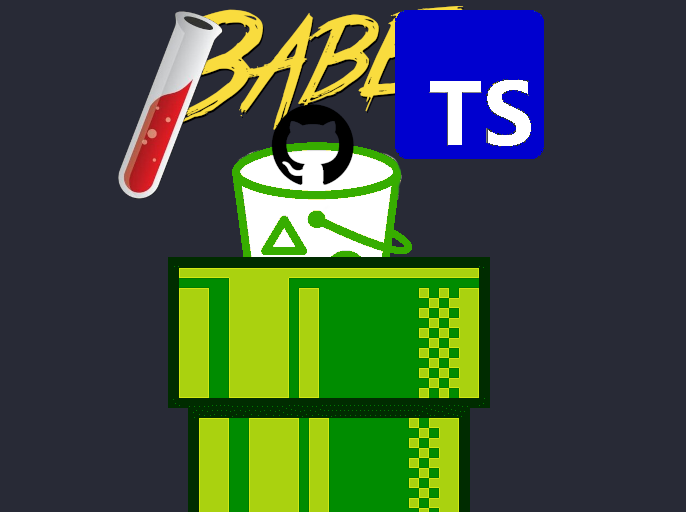
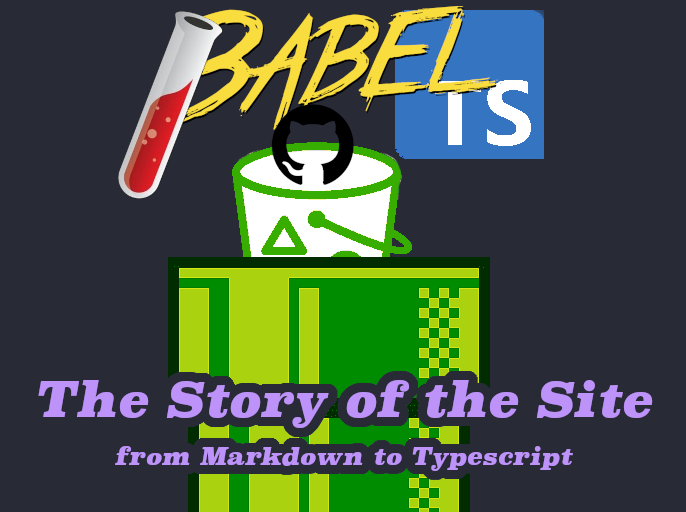
Add story of the site post

Changed region(s): [[0.1531, 0.7188, 0.949, 0.9375], [0.551, 0.0, 0.7959, 0.3125], [0.0306, 0.7188, 0.2143, 0.8125]]

diff --git a/_layouts/writing.html b/_layouts/writing.html
@@ -1,0 +1,66 @@
+<!DOCTYPE html>
+<html lang="en-US"><head>
+    <meta charset="UTF-8">
+    <meta http-equiv="X-UA-Compatible" content="IE=edge">
+    <meta name="viewport" content="width=device-width, initial-scale=1">
+
+<!-- Begin Jekyll SEO tag v2.7.1 -->
+<title>mmcbrien</title>
+<meta name="generator" content="Jekyll v3.9.0">
+<meta property="og:title" content="mmcbrien">
+<meta property="og:locale" content="en_US">
+<meta property="og:site_name" content="mmcbrien">
+<meta name="twitter:card" content="summary">
+<meta property="twitter:title" content="mmcbrien">
+<script src="https://ajax.googleapis.com/ajax/libs/jquery/2.1.3/jquery.min.js"></script>
+<script type="application/ld+json">
+{"headline":"mmcbrien","publisher":{"@type":"Organization","logo":{"@type":"ImageObject","url":"/assets/splash.png"}},"url":"/","name":"mmcbrien","@type":"WebSite","@context":"https://schema.org"}</script>
+<!-- End Jekyll SEO tag -->
+
+    <link rel="stylesheet" href="/assets/css/style.css?v=">
+    <!--[if lt IE 9]>
+    <script src="//cdnjs.cloudflare.com/ajax/libs/html5shiv/3.7.3/html5shiv.min.js"></script>
+    <![endif]-->
+  </head>
+  <body>
+    <div class="wrapper">
+      <header>
+        <div id="header">
+        <h1><a href="/">mmcbrien</a></h1>
+            <div class="fadeLogos fadeLogosParent">
+              <img id="logoA" src="/assets/splashSoftwareEngineer.png" alt="Logo">
+            </div>
+            <div class="fadeLogos fadeLogosParent">
+                <img id="logoB" src="/assets/splashYellowJacket.png" alt="Logo">
+            </div> 
+            <div class="fadeLogos fadeLogosParent">
+                <img id="logoC" src="/assets/splashProgrammer.png" alt="Logo">
+            </div> 
+            <div class="fadeLogos fadeLogosChild">
+                <img id="logoD" src="/assets/splashWriter.png" alt="Logo">
+            </div>
+        
+        <p></p>
+        <div style="position:relative">
+          <h3><a href="https://github.com/mmcbrien3/mmcbrien.com">GitHub Commits</a></h3>
+          <table id="gitCommitsTable">
+            <tr>
+              <th><b><i>Title</i></b></th>
+              <th><b><i>SHA</i></b></th>
+            </tr>
+            <tr class="commitTableEntry"></b>
+          </table>
+        </div>
+        </div>
+      </header>
+      <section id="contentWrapper">
+    <h2><a href="../writings.html"> Back to Writings </a></h2>
+{{ content }}
+      </section>
+      <footer>
+        <small>Hosted on S3 — <a href="https://github.com/orderedlist">Theme</a></small>
+      </footer>
+    </div>
+</body>
+<script src="/js/main.js"></script>
+</html>

diff --git a/writing_dir/story_of_the_site_2023.md b/writing_dir/story_of_the_site_2023.md
@@ -1,0 +1,93 @@
+---
+layout: writing 
+---
+
+![](.././assets/howItsMade.png)
+
+#### April 24th, 2023
+
+### Overview
+This post is a brief history of how the website took shape and reached
+it's current form. It doesn't go into deep technical details and isn't a
+tutorial on how to set everything up. Maybe I'll write that tutorial one
+day.
+
+### Origins 
+
+When I created this website, I had three goals for it:
+1. Create a showcase for some of my work
+2. Have an easy place to write and publish blogs
+3. Learn about web development
+
+Goals (1) and (2) are quite easy to achieve with any website
+building platform like squarespace. However, using a common
+platform like this would mean that I wouldn't achieve goal (3).
+
+To that end, I started learning about easy ways to set up
+static websites with easy hosting. This is when I learned about
+[GitHub pages](https://docs.github.com/en/pages), which is a service
+provided by GitHub that allows you to easily publish websites
+from your repositories. GitHub recommends using [Jekyll](https://jekyllrb.com),
+which is a ruby-based static-site builder. This all fit the bill!
+
+With this discovery and a bit of effort, the first version of the
+website was born: `mmcbrien3.github.io`.
+
+### Improving on the Original
+
+The first version of the site was great. One of the main benefits of using
+jekyll is that you can write pages very quickly in markdown, and jekyll
+will convert this to HTML for you. Adding paragraph breaks, **bolds**, and
+images is very straightforward (at least for me since I had experience with
+markdown). Writing and publishing to the web was very straightforward.
+
+An early issue I had with my site was that I didn't like the color scheme. To
+fix this, I investigated how the Jekyll theme I was using set up everything. This
+is when I first started tinkering with CSS for the first time and I was able
+to update the site to use the [dracula theme](https://draculatheme.com).
+
+### The Release Process
+
+The GitHub pages site was great, but I wanted to take more control on the release process,
+and I wanted to start using a custom domain [mmcbrien.com](mmcbrien.com). To this end,
+I migrated the site to use S3 as the static site host. A code pipeline on AWS pulls
+the latest commit from GitHub automatically, runs a simple build command, and publishes
+the artifacts to S3. With this pipeline, I was able to create custom build and release commands for my site. 
+These custom commands meant that I could now build any static site I wanted with any dependency
+and was no longer constricted by the GitHub pages dependencies and workflow.
+
+At the same time, I was able to migrate to a new custom domain using 
+[Route 53 and CloudFront](https://docs.aws.amazon.com/AmazonS3/latest/userguide/website-hosting-custom-domain-walkthrough.html).
+
+For the first time, I was completely in control of how my website was written, built,
+released, and published!
+
+In the future, I could extend the release process to include testing to validate the build
+and CloudFront actions to expedite the release.
+
+## NPM
+
+The next improvement came when I realized how poor my dependency management was. I usually make changes on
+my laptop, but I tried making a change on my desktop. I realized that getting all the dependencies installed
+correctly to perform the build was more challenging than it should be. I had been using Ruby and
+*global* node packages to get everything to work.
+
+I undertook the work to define what dependencies one would need before starting (currently Ruby and Node), and
+then writing a one-liner using npm that could do the rest. I added a few more nice to haves, including npm
+clean, build, and serve commands. These commands are by the code pipeline in the release process.
+Finally, the site was in a state where building and releasing was sensible and tight.
+
+### Typescript
+
+At this point, the site was in quite a good state. However, with some of my blogs, I was interested
+in adding some relatively beefy javascript to support the text. This was achievable with the setup,
+but writing the javascript was quite painful for me since I am more of a strongly-typed kind of engineer.
+
+To support this, I migrated to using [typescript](https://www.typescriptlang.org/) with [babel](https://babeljs.io/) 
+as the transpiler. Typescript allows me to write much more readable code and babel will convert that into
+browser-compatible javascript.
+
+It is quite remarkable to me that I can write code in typescript and edit text in markdown and all of this
+can be automatically converted into a website automatically. This is the type of abstraction that makes
+software engineering so thrilling. At this point, I barely have to think about the vast array of underlying
+technologies to publish my website.

diff --git a/writings.md b/writings.md
@@ -2,6 +2,7 @@
 layout: default
 ---
 # Writings
+- [The Story of the Site](./writing_dir/story_of_the_site_2023.html)
 - [A Brief Intro to Neural Nets (with interactive nets!)](./writing_dir/InteractiveNN.html)
 - [Monte Carlo Estimation of Pi](./writing_dir/MonteCarloPi.html)
 - [Yet Another Monty Hall Exploration](./writing_dir/YAMHE.html)

diff --git a/writing_dir/brains_vs_brawn.md b/writing_dir/brains_vs_brawn.md
@@ -1,5 +1,5 @@
 ---
-layout: default
+layout: writing 
 ---
 ## Brains vs. Brawn: A footnote on GPUs and the Discrete Cosine Transform
 

diff --git a/writing_dir/InteractiveNN.md b/writing_dir/InteractiveNN.md
@@ -1,5 +1,5 @@
 ---
-layout: default
+layout: writing
 ---
 ## A Brief Intro to Neural Nets
 ### with interactive nets!

diff --git a/IDEAS.md b/IDEAS.md
@@ -2,4 +2,3 @@
 
 - Work on rivers length blog
 - Add bad computer opponent to chess game
-- How It's Made blog post

diff --git a/writing_dir/minecraft_aws_server.md b/writing_dir/minecraft_aws_server.md
@@ -1,5 +1,5 @@
 ---
-layout: default
+layout: writing
 ---
 ## How to host a Minecraft Server on AWS
 

diff --git a/writing_dir/YAMHE.md b/writing_dir/YAMHE.md
@@ -1,5 +1,5 @@
 ---
-layout: default
+layout: writing
 ---
 
 ![](../assets/monty_hall_splash.png)

diff --git a/writing_dir/MonteCarloPi.md b/writing_dir/MonteCarloPi.md
@@ -1,5 +1,5 @@
 ---
-layout: default
+layout: writing
 ---
 ## Monte Carlo Pi Calculation
 

diff --git a/writing_dir/UnknownWords.md b/writing_dir/UnknownWords.md
@@ -1,5 +1,5 @@
 ---
-layout: default
+layout: writing
 ---
 
 # Unknown Words

diff --git a/writing_dir/chefs_log_overview.md b/writing_dir/chefs_log_overview.md
@@ -1,5 +1,5 @@
 ---
-layout: default
+layout: writing
 ---
 
 # Chef's Log
